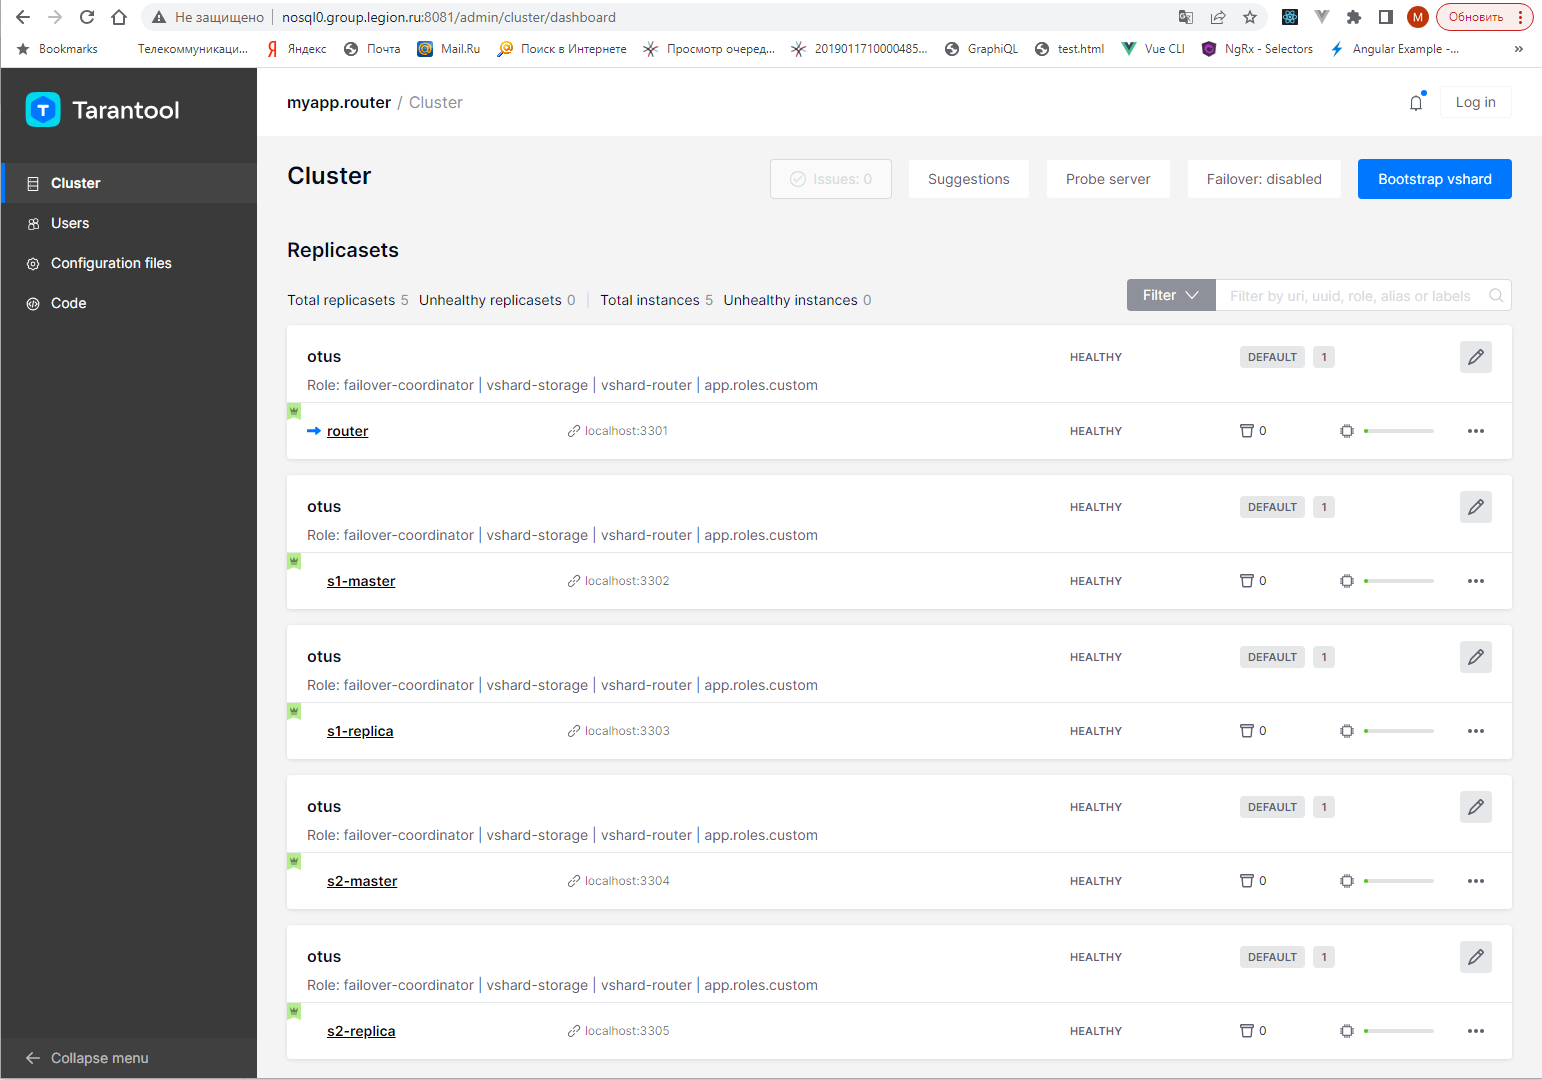
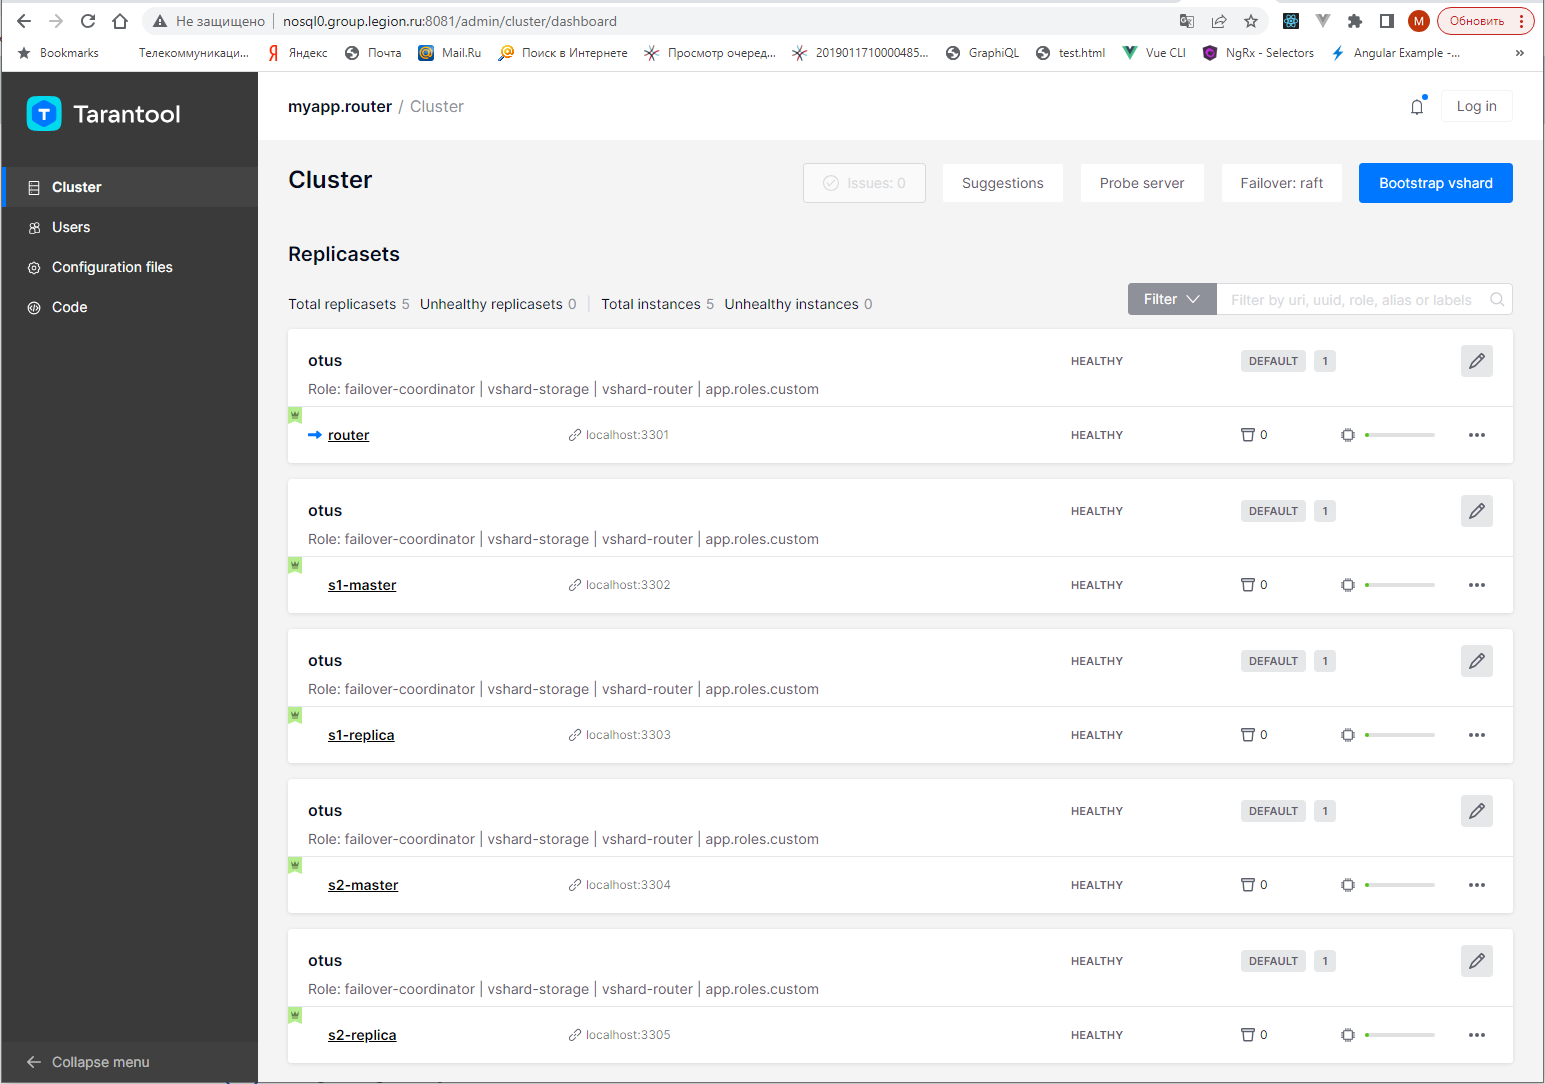
Task-13-2

diff --git a/Task13.md b/Task13.md
@@ -20,7 +20,7 @@
 
 ![configure cluster](./task13-configure-server.PNG)
 
-Состояние кластера после выполнения конфигурирования:
+Состояние кластера после выполнения конфигурирования (failover: RAFT):
 
 ![cluster replicaset](./task13-replicaset.PNG)
 
